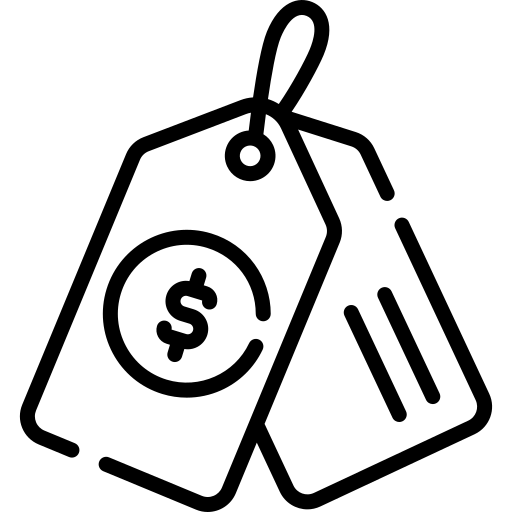
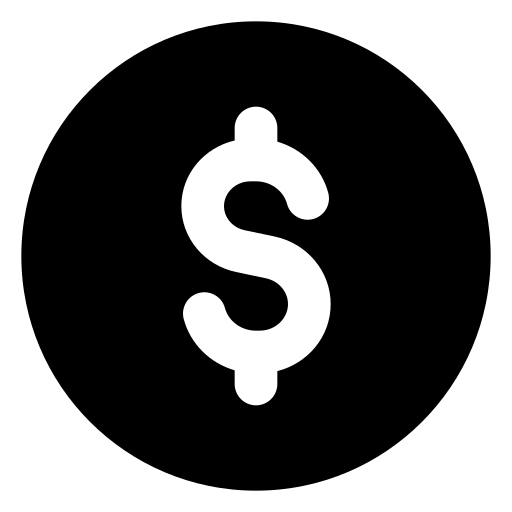
Actualiza icones de Stock/Compras (novos ficheiros) e adiciona Inicio; reverte sino do card de atencao
Stock/Compras recebem os icones fornecidos mais recentes (substituem
os anteriores); Inicio ganha icone proprio pela mesma tecnica (antes
era SVG desenhada aqui). O card "Precisa da tua atencao" volta a usar
o ponto simples (.live-dot), tal como o "Mais urgente" -- o sino a
pulsar la foi revertido a pedido explicito.

Cabecalho do dashboard: icone e titulo "DASHBOARD" passam a preto, o
titulo fica ligeiramente menor e usa .font-display (Archivo 800
italico maiusculas), a letra de impacto da marca ja definida no CSS
mas nunca usada na interface ate agora.

diff --git a/style.css b/style.css
@@ -331,6 +331,7 @@ body {
 .nav-inicio-icon.icon-config  { -webkit-mask-image: url('assets/icon-config.png');  mask-image: url('assets/icon-config.png'); }
 .nav-inicio-icon.icon-compras { -webkit-mask-image: url('assets/icon-compras.png'); mask-image: url('assets/icon-compras.png'); }
 .nav-inicio-icon.icon-stock   { -webkit-mask-image: url('assets/icon-stock.png');   mask-image: url('assets/icon-stock.png'); }
+.nav-inicio-icon.icon-inicio  { -webkit-mask-image: url('assets/icon-inicio.png');  mask-image: url('assets/icon-inicio.png'); }
 .nav-inicio-btn:hover { background: var(--bg2); color: var(--text); }
 .nav-inicio-btn.active {
   background: var(--brand-red-lt);
@@ -476,11 +477,8 @@ body {
 .dash-panel-eyebrow {
   display: flex;
   align-items: center;
-  font-size: 22px;
-  font-weight: 700;
-  letter-spacing: 0.02em;
-  text-transform: uppercase;
-  color: var(--brand-red);
+  font-size: 18px;
+  color: var(--text);
 }
 /* Ícone fornecido tal como está (assets/icon-dashboard.png) — nunca
    redesenhado; a cor vem de o usar como máscara, não de o editar. */
@@ -490,7 +488,7 @@ body {
   height: 24px;
   margin-right: 8px;
   flex-shrink: 0;
-  background-color: var(--brand-red);
+  background-color: var(--text);
   -webkit-mask-image: url('assets/icon-dashboard.png');
   mask-image: url('assets/icon-dashboard.png');
   -webkit-mask-size: contain;
@@ -1350,52 +1348,6 @@ tbody tr:hover td { background: var(--bg); }
 }
 @media (prefers-reduced-motion: reduce) {
   .live-dot::after { animation: none; }
-}
-
-/* Ícone do cartão "Precisa da tua atenção" (Início) — sino fornecido
-   como imagem (assets/icon-bell.png), tal como está, via mask-image;
-   crítico pulsa a vermelho (chama a atenção), ok fica verde parado
-   (não é um alerta, não precisa de pulsar). */
-.atencao-icon {
-  --icon: url('assets/icon-bell.png');
-  display: inline-block;
-  width: 34px;
-  height: 34px;
-  flex-shrink: 0;
-  position: relative;
-  background-color: var(--text3);
-  -webkit-mask-image: var(--icon);
-  mask-image: var(--icon);
-  -webkit-mask-size: contain;
-  mask-size: contain;
-  -webkit-mask-repeat: no-repeat;
-  mask-repeat: no-repeat;
-  -webkit-mask-position: center;
-  mask-position: center;
-}
-.atencao-icon.critico { background-color: var(--red); }
-.atencao-icon.ok      { background-color: var(--green); }
-.atencao-icon.critico::after {
-  content: '';
-  position: absolute;
-  inset: 0;
-  background-color: inherit;
-  -webkit-mask-image: var(--icon);
-  mask-image: var(--icon);
-  -webkit-mask-size: contain;
-  mask-size: contain;
-  -webkit-mask-repeat: no-repeat;
-  mask-repeat: no-repeat;
-  -webkit-mask-position: center;
-  mask-position: center;
-  animation: atencao-pulse 1.8s ease-out infinite;
-}
-@keyframes atencao-pulse {
-  0%   { transform: scale(1);   opacity: 0.55; }
-  100% { transform: scale(1.5); opacity: 0; }
-}
-@media (prefers-reduced-motion: reduce) {
-  .atencao-icon.critico::after { animation: none; }
 }
 
 /* ── CONFIRMAR SAIR ───────────────────────────────────────────── */

diff --git a/app.html b/app.html
@@ -220,7 +220,7 @@
       </button>
       <!-- INÍCIO — comum a veículos e reboques, fora da troca de secção -->
       <button id="btn-inicio" class="nav-inicio-btn active" onclick="navInicio()">
-        <svg viewBox="0 0 20 20" fill="none" stroke="currentColor" stroke-width="1.6" stroke-linecap="round" stroke-linejoin="round"><path d="M3 9.5 10 3l7 6.5"/><path d="M5 8v8.5a1 1 0 0 0 1 1h8a1 1 0 0 0 1-1V8"/><path d="M8 17.5V12h4v5.5"/></svg>
+        <span class="nav-inicio-icon icon-inicio"></span>
         Início
       </button>
       <!-- COMPRAS (Fornecedores + Marcas) — comum a veículos e reboques, fora da troca de secção -->
@@ -344,7 +344,7 @@
 
       <div class="card" id="inicio-atencao" style="display:flex;align-items:center;justify-content:space-between;gap:16px;flex-wrap:wrap">
         <div style="display:flex;align-items:center;gap:12px;min-width:0">
-          <div id="inicio-atencao-icon" class="atencao-icon"></div>
+          <span id="inicio-atencao-icon" class="live-dot"></span>
           <div style="min-width:0">
             <div id="inicio-atencao-titulo" style="font-size:14px;font-weight:600;color:var(--text)">A carregar…</div>
             <div id="inicio-atencao-sub" style="font-size:12px;color:var(--text2);margin-top:2px"></div>
@@ -358,7 +358,7 @@
 
       <div class="dash-panel">
       <div class="dash-panel-head">
-        <div class="dash-panel-eyebrow"><span class="dash-panel-icon"></span>Dashboard</div>
+        <div class="dash-panel-eyebrow font-display"><span class="dash-panel-icon"></span>Dashboard</div>
         <div class="frow" style="margin:0;max-width:200px;flex:1">
           <select id="inicio-vista" data-fancy onchange="escolherVistaInicio(this.value)">
             <option value="unificada">Visão unificada</option>

diff --git a/js/inicio.js b/js/inicio.js
@@ -76,7 +76,7 @@ function renderInicioAtencao(criticosVeic, criticosReb) {
   const total = matsVeic.size + matsReb.size;
 
   if (total === 0) {
-    icon.className = 'atencao-icon ok';
+    icon.className = 'live-dot green';
     tit.textContent  = 'Nenhum alerta crítico';
     sub.textContent  = 'Todos os pneus activos estão em bom estado.';
     btnV.classList.add('hidden');
@@ -84,7 +84,7 @@ function renderInicioAtencao(criticosVeic, criticosReb) {
     return;
   }
 
-  icon.className = 'atencao-icon critico';
+  icon.className = 'live-dot red';
   tit.textContent  = total === 1 ? '1 veículo/reboque com pneus críticos' : total + ' veículos/reboques com pneus críticos';
 
   const linhas = [];

diff --git a/README.md b/README.md
@@ -325,7 +325,8 @@ Esta mesma estimativa (`calcularEstimativasDesgaste`, `js/alertas.js`) alimenta 
 
 Segue o guia próprio `SKILL_design.md` (na raiz do repo). Pontos concretos já aplicados em `style.css`/`js/utils.js`:
 
-- O bloco de KPIs + gráficos de Início (`.dash-panel`, `style.css`) tem fundo e friso (vermelho da marca) próprios, com o selector "Visão geral" integrado no cabeçalho — antes eram cartões soltos directamente sobre o fundo da página, sem nada a dizer que pertenciam todos à mesma coisa. O rótulo "DASHBOARD" (`.dash-panel-eyebrow`) é o único título do cabeçalho (sem subtítulo por baixo), acompanhado do ícone `assets/icon-dashboard.png` — usado tal como foi fornecido, nunca redesenhado; a cor vermelha vem de o aplicar como `mask-image` com `background-color`, não de editar o PNG. Os 3 botões "comuns" da sidebar (Configuração/Compras/Stock, `.nav-inicio-icon`) seguem a mesma técnica — `assets/icon-config.png`/`icon-compras.png`/`icon-stock.png`, tingidos com `background-color: currentColor` para acompanharem o estado do próprio botão (cinza por omissão, vermelho quando activo), exactamente como as SVG dos outros itens da sidebar faziam com `stroke="currentColor"`. O item "Alertas" da sidebar (`.ni-icon-img`) usa o mesmo princípio com `assets/icon-bell.png`. O cartão "Precisa da tua atenção" (Início) também usa esse sino em vez do emoji 🔴/🟢 de antes (`.atencao-icon`) — crítico pulsa a vermelho (chama a atenção), "ok" fica verde parado (não é um alerta, não precisa de pulsar); o "Mais urgente" (Por veículo/reboque) continua com o ponto simples de sempre (`.live-dot`), sem ícone — são cartões com propósitos diferentes, não o mesmo elemento.
+- O bloco de KPIs + gráficos de Início (`.dash-panel`, `style.css`) tem fundo e friso (vermelho da marca) próprios, com o selector "Visão geral" integrado no cabeçalho — antes eram cartões soltos directamente sobre o fundo da página, sem nada a dizer que pertenciam todos à mesma coisa. O rótulo "DASHBOARD" (`.dash-panel-eyebrow`) é o único título do cabeçalho (sem subtítulo por baixo), em `.font-display` (Archivo 800 itálico maiúsculas — a letra de impacto da marca, ver comentário na própria classe) e a preto, acompanhado do ícone `assets/icon-dashboard.png` também a preto — usado tal como foi fornecido, nunca redesenhado; a cor vem de o aplicar como `mask-image` com `background-color`, não de editar o PNG.
+- Ícones fornecidos como imagem (não SVG desenhadas aqui), todos pela mesma técnica (`mask-image` + `background-color: currentColor`, para acompanharem o estado de quem os usa): os botões "comuns" da sidebar (Início/Compras/Stock, `.nav-inicio-icon` — `assets/icon-inicio.png`/`icon-compras.png`/`icon-stock.png`) e o item "Alertas" (`.ni-icon-img`, `assets/icon-bell.png`). **Nota de consistência visual**: estes ficheiros vieram de lotes diferentes fornecidos ao longo do tempo (uns de traço fino, outros ilustrativos a cheio) — ainda por uniformizar; o botão "Configuração" mantém por agora o ícone do lote anterior. O cartão "Precisa da tua atenção" (Início) e o "Mais urgente" (Por veículo/reboque) usam os dois o ponto simples de sempre (`.live-dot`), sem ícone — foram testados com o sino a pulsar no lugar do ponto, mas revertido a pedido explícito.
 - Painéis laterais (ex. mudar password, lugares) deslizam (`transform: translateX`) em vez de aparecer/desaparecer instantaneamente; alguns (Registar pneu) abrem antes centrados (`.panel-center`) em vez de laterais, por serem acessíveis de qualquer página, não só de uma em concreto.
 - Botões têm feedback de pressão (`:active { transform: scale(0.97) }`), excepto os itens de navegação da sidebar (clicados dezenas de vezes por dia — animá-los seria ruído, não feedback).
 - `prefers-reduced-motion` desliga estas transformações.
